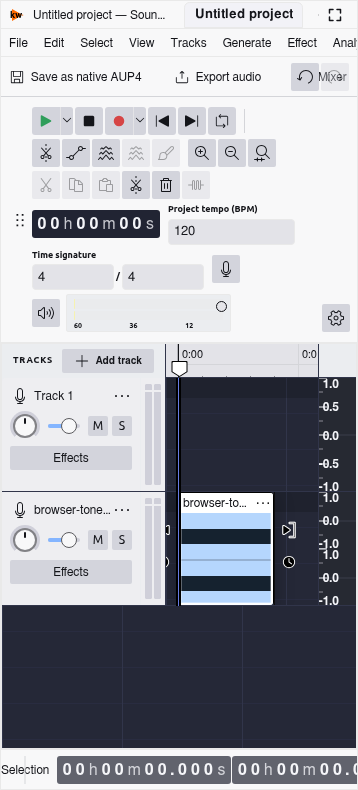
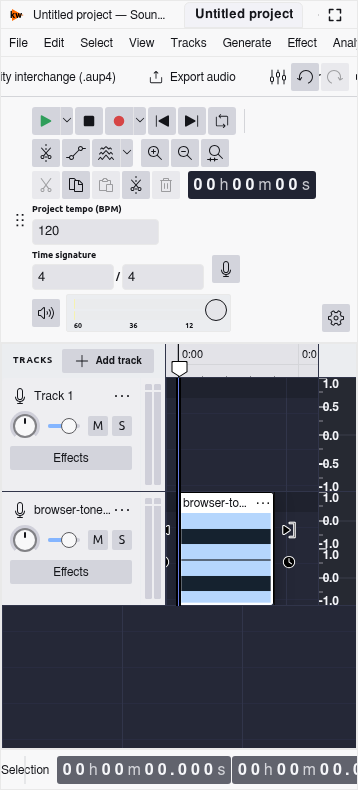
cut/copy/paste

diff --git a/src/components/tools/audio-editor/AudioEditorApp.jsx b/src/components/tools/audio-editor/AudioEditorApp.jsx
@@ -571,12 +571,15 @@ function AudioEditorWorkspace({ locale, copy }) {
 	const recordLabel = showArmControls ? copy.record : copy.recordActiveTrack;
 
 	const editItems = [
-		{ action: 'cut', label: copy.cut, icon: 'cut', disabled: editBlocked || !editSelectionActive },
+		{ action: 'cutPerTrackRipple', label: copy.cutPerTrackRipple, icon: 'cut', disabled: editBlocked || !selectionActive },
+		{ action: 'cutLeaveGap', label: copy.cutLeaveGap, icon: 'cut', disabled: editBlocked || !selectionActive },
+		{ action: 'cutAllTracksRipple', label: copy.cutAllTracksRipple, icon: 'cut', disabled: editBlocked || !selectionActive },
 		{ action: 'copy', label: copy.copy, icon: 'copy', disabled: editBlocked || !editSelectionActive },
 		{ action: 'paste', label: copy.paste, icon: 'paste', disabled: editBlocked || !snapshot.history?.hasClipboard },
 		{ action: 'split', label: copy.split, icon: 'split', disabled: editBlocked || !splitAvailable },
-		{ action: 'delete', label: copy.liftDelete, icon: 'trash', disabled: editBlocked || (!selectionActive && !selectedClip) },
-		{ action: 'rippleDelete', label: copy.rippleDelete, icon: 'trim', disabled: editBlocked || !selectionActive },
+		{ action: 'deletePerTrackRipple', label: copy.deletePerTrackRipple, icon: 'trash', disabled: editBlocked || !selectionActive },
+		{ action: 'deleteLeaveGap', label: copy.deleteLeaveGap, icon: 'trash', disabled: editBlocked || !selectionActive },
+		{ action: 'deleteAllTracksRipple', label: copy.deleteAllTracksRipple, icon: 'trash', disabled: editBlocked || !selectionActive },
 	];
 
 	const executeEdit = useCallback(
@@ -5794,32 +5797,41 @@ function createApplicationMenus({
 				{ id: 'undo', label: copy.undo, shortcut: 'Ctrl+Z', disabled: editBlocked || !snapshot.history?.canUndo, onClick: () => actions.executeEdit('undo') },
 				{ id: 'redo', label: copy.redo, shortcut: 'Ctrl+Shift+Z', disabled: editBlocked || !snapshot.history?.canRedo, onClick: () => actions.executeEdit('redo') },
 				divider(),
-				{ id: 'cut', label: copy.cut, shortcut: 'Ctrl+X', disabled: editBlocked || !editSelectionActive, onClick: () => actions.executeEdit('cut') },
-				{ id: 'delete', label: copy.liftDelete, shortcut: 'Delete', disabled: editBlocked || (!selectionActive && !selectedClip), onClick: () => actions.executeEdit('delete') },
+					{
+						id: 'cut',
+						label: copy.cut,
+						items: [
+							{ id: 'cut-leave-gap', label: copy.cutLeaveGap, shortcut: 'Ctrl+X', disabled: editBlocked || !selectionActive, onClick: () => actions.executeEdit('cutLeaveGap') },
+							{ id: 'cut-per-clip-ripple', label: copy.cutPerClipRipple, disabled: editBlocked || !selectionActive, onClick: () => actions.executeEdit('cutPerClipRipple') },
+							{ id: 'cut-per-track-ripple', label: copy.cutPerTrackRipple, shortcut: 'Shift+X', disabled: editBlocked || !selectionActive, onClick: () => actions.executeEdit('cutPerTrackRipple') },
+							{ id: 'cut-all-tracks-ripple', label: copy.cutAllTracksRipple, shortcut: 'Shift+Ctrl+X', disabled: editBlocked || !selectionActive, onClick: () => actions.executeEdit('cutAllTracksRipple') },
+						],
+					},
+					{
+						id: 'delete',
+						label: copy.liftDelete,
+						items: [
+							{ id: 'delete-leave-gap', label: copy.deleteLeaveGap, shortcut: 'Delete', disabled: editBlocked || !selectionActive, onClick: () => actions.executeEdit('deleteLeaveGap') },
+							{ id: 'delete-per-clip-ripple', label: copy.deletePerClipRipple, disabled: editBlocked || !selectionActive, onClick: () => actions.executeEdit('deletePerClipRipple') },
+							{ id: 'delete-per-track-ripple', label: copy.deletePerTrackRipple, shortcut: 'Backspace', disabled: editBlocked || !selectionActive, onClick: () => actions.executeEdit('deletePerTrackRipple') },
+							{ id: 'delete-all-tracks-ripple', label: copy.deleteAllTracksRipple, shortcut: 'Ctrl+Delete, Ctrl+Backspace', disabled: editBlocked || !selectionActive, onClick: () => actions.executeEdit('deleteAllTracksRipple') },
+						],
+					},
 				{ id: 'copy', label: copy.copy, shortcut: 'Ctrl+C', disabled: editBlocked || !editSelectionActive, onClick: () => actions.executeEdit('copy') },
-				{ id: 'paste', label: copy.paste, shortcut: 'Ctrl+V', disabled: editBlocked || !snapshot.history?.hasClipboard, onClick: () => actions.executeEdit('paste') },
-				{ id: 'duplicate-audio', label: copy.duplicateAudio, disabled: editBlocked || !selectionActive, onClick: () => actions.executeEdit('duplicate') },
 				{
-					id: 'paste-special',
-					label: copy.pasteSpecial,
+					id: 'paste',
+					label: copy.paste,
 					items: [
-						{ id: 'action://trackedit/paste-overlap', label: copy.pasteOverlap, disabled: editBlocked || !snapshot.history?.hasClipboard, onClick: () => actions.executeEdit('pasteOverlap') },
+						{ id: 'action://paste', label: copy.paste, shortcut: 'Ctrl+V', disabled: editBlocked || !snapshot.history?.hasClipboard, onClick: () => actions.executeEdit('paste') },
 						{ id: 'action://trackedit/paste-insert', label: copy.pasteInsert, disabled: editBlocked || !snapshot.history?.hasClipboard, onClick: () => actions.executeEdit('pasteInsert') },
 						{ id: 'action://trackedit/paste-insert-all-tracks-ripple', label: copy.pasteSync, disabled: editBlocked || !snapshot.history?.hasClipboard, onClick: () => actions.executeEdit('pasteAllTracksRipple') },
 					],
 				},
+				{ id: 'duplicate-audio', label: copy.duplicateAudio, disabled: editBlocked || !selectionActive, onClick: () => actions.executeEdit('duplicate') },
 				{
 					id: 'remove-special',
 					label: copy.removeSpecial,
 					items: [
-						{ id: 'cut-leave-gap', label: copy.cutLeaveGap, disabled: editBlocked || !selectionActive, onClick: () => actions.executeEdit('cutLeaveGap') },
-						{ id: 'cut-per-clip-ripple', label: copy.cutPerClipRipple, disabled: editBlocked || !selectionActive, onClick: () => actions.executeEdit('cutPerClipRipple') },
-						{ id: 'cut-per-track-ripple', label: copy.cutPerTrackRipple, disabled: editBlocked || !selectionActive, onClick: () => actions.executeEdit('cutPerTrackRipple') },
-						{ id: 'cut-all-tracks-ripple', label: copy.cutAllTracksRipple, disabled: editBlocked || !selectionActive, onClick: () => actions.executeEdit('cutAllTracksRipple') },
-						{ id: 'delete-leave-gap', label: copy.deleteLeaveGap, disabled: editBlocked || !selectionActive, onClick: () => actions.executeEdit('deleteLeaveGap') },
-						{ id: 'delete-per-clip-ripple', label: copy.deletePerClipRipple, disabled: editBlocked || !selectionActive, onClick: () => actions.executeEdit('deletePerClipRipple') },
-						{ id: 'delete-per-track-ripple', label: copy.deletePerTrackRipple, disabled: editBlocked || !selectionActive, onClick: () => actions.executeEdit('deletePerTrackRipple') },
-						{ id: 'delete-all-tracks-ripple', label: copy.deleteAllTracksRipple, disabled: editBlocked || !selectionActive, onClick: () => actions.executeEdit('deleteAllTracksRipple') },
 						{ id: 'trim-audio-outside-selection', label: copy.trimOutsideSelection, disabled: editBlocked || !selectionActive, onClick: () => actions.executeEdit('trimOutsideSelection') },
 						{ id: 'silence-audio', label: copy.silenceAudio, disabled: editBlocked || !selectionActive, onClick: () => actions.executeEdit('silenceSelection') },
 					],

diff --git a/src/lib/tools/audio-editor/audacity-action-parity.js b/src/lib/tools/audio-editor/audacity-action-parity.js
@@ -122,22 +122,22 @@ const definitions = [
 	// Edit menu and destructive/ripple variants.
 	implemented('action://trackedit/undo', 'Undo', ['Edit'], 'edit.undo', { shortcut: 'Ctrl+Z', enableWhen: 'history-can-undo', source: UPSTREAM.trackEdit }),
 	implemented('action://trackedit/redo', 'Redo', ['Edit'], 'edit.redo', { shortcut: 'Ctrl+Shift+Z', enableWhen: 'history-can-redo', source: UPSTREAM.trackEdit }),
-	implemented('action://cut', 'Cut', ['Edit'], 'edit.cut', { shortcut: 'Ctrl+X', enableWhen: 'editable-selection-or-clip', source: UPSTREAM.trackEdit }),
+	implemented('action://cut', 'Cut', ['Edit'], 'edit.cut', { enableWhen: 'editable-selection-or-clip', source: UPSTREAM.trackEdit }),
 	implemented('action://copy', 'Copy', ['Edit'], 'edit.copy', { shortcut: 'Ctrl+C', enableWhen: 'selection', source: UPSTREAM.trackEdit }),
 	implemented('action://paste', 'Paste', ['Edit'], 'edit.paste', { shortcut: 'Ctrl+V', enableWhen: 'clipboard-and-project-writable', source: UPSTREAM.trackEdit }),
-	implemented('action://delete', 'Delete', ['Edit', 'Clip context'], 'edit.delete', { shortcut: 'Delete', enableWhen: 'editable-selection-or-clip', source: UPSTREAM.trackEdit }),
+	implemented('action://delete', 'Delete', ['Edit', 'Clip context'], 'edit.delete', { enableWhen: 'editable-selection-or-clip', source: UPSTREAM.trackEdit }),
 	implemented('duplicate', 'Duplicate', ['Edit'], 'edit.duplicate', { shortcut: 'Ctrl+D', enableWhen: 'editable-selection-or-clip', source: UPSTREAM.trackEdit }),
-	implemented('action://trackedit/paste-overlap', 'Paste and overlap', ['Edit > Paste special'], 'edit.pasteOverlap', { enableWhen: 'clipboard-and-project-writable', source: UPSTREAM.trackEdit }),
-	implemented('action://trackedit/paste-insert', 'Paste and insert', ['Edit > Paste special'], 'edit.pasteInsert', { enableWhen: 'clipboard-and-project-writable', source: UPSTREAM.trackEdit }),
-	implemented('action://trackedit/paste-insert-all-tracks-ripple', 'Paste and preserve synchronization', ['Edit > Paste special'], 'edit.pasteAllTracksRipple', { enableWhen: 'clipboard-and-project-writable', source: UPSTREAM.trackEdit }),
-	implemented('cut-leave-gap', 'Cut and leave gap', ['Edit > Remove special'], 'edit.cutLeaveGap', { enableWhen: 'editable-selection', source: UPSTREAM.trackEdit }),
-	implemented('cut-per-clip-ripple', 'Cut and close gap per clip', ['Edit > Remove special'], 'edit.cutPerClipRipple', { enableWhen: 'editable-selection', source: UPSTREAM.trackEdit }),
-	implemented('cut-per-track-ripple', 'Cut and close gap per track', ['Edit > Remove special'], 'edit.cutPerTrackRipple', { enableWhen: 'editable-selection', source: UPSTREAM.trackEdit }),
-	implemented('cut-all-tracks-ripple', 'Cut and close gap on all tracks', ['Edit > Remove special'], 'edit.cutAllTracksRipple', { enableWhen: 'editable-selection', source: UPSTREAM.trackEdit }),
-	implemented('delete-leave-gap', 'Delete and leave gap', ['Edit > Remove special'], 'edit.deleteLeaveGap', { enableWhen: 'editable-selection', source: UPSTREAM.trackEdit }),
-	implemented('delete-per-clip-ripple', 'Delete and close gap per clip', ['Edit > Remove special'], 'edit.deletePerClipRipple', { enableWhen: 'editable-selection', source: UPSTREAM.trackEdit }),
-	implemented('delete-per-track-ripple', 'Delete and close gap per track', ['Edit > Remove special'], 'edit.deletePerTrackRipple', { enableWhen: 'editable-selection', source: UPSTREAM.trackEdit }),
-	implemented('delete-all-tracks-ripple', 'Delete and close gap on all tracks', ['Edit > Remove special'], 'edit.deleteAllTracksRipple', { enableWhen: 'editable-selection', source: UPSTREAM.trackEdit }),
+	implemented('action://trackedit/paste-overlap', 'Paste', ['Edit > Paste'], 'edit.pasteOverlap', { enableWhen: 'clipboard-and-project-writable', source: UPSTREAM.trackEdit }),
+	implemented('action://trackedit/paste-insert', 'Insert', ['Edit > Paste'], 'edit.pasteInsert', { shortcut: 'Insert', enableWhen: 'clipboard-and-project-writable', source: UPSTREAM.trackEdit }),
+	implemented('action://trackedit/paste-insert-all-tracks-ripple', 'Insert and preserve synchronisation', ['Edit > Paste'], 'edit.pasteAllTracksRipple', { shortcut: 'Ctrl+Insert', enableWhen: 'clipboard-and-project-writable', source: UPSTREAM.trackEdit }),
+	implemented('cut-leave-gap', 'Cut and leave gap', ['Edit > Cut'], 'edit.cutLeaveGap', { shortcut: 'Ctrl+X', enableWhen: 'editable-selection', source: UPSTREAM.trackEdit }),
+	implemented('cut-per-clip-ripple', 'Cut and close gap per clip', ['Edit > Cut'], 'edit.cutPerClipRipple', { enableWhen: 'editable-selection', source: UPSTREAM.trackEdit }),
+	implemented('cut-per-track-ripple', 'Cut and close gap per track', ['Edit > Cut'], 'edit.cutPerTrackRipple', { shortcut: 'Shift+X', enableWhen: 'editable-selection', source: UPSTREAM.trackEdit }),
+	implemented('cut-all-tracks-ripple', 'Cut and close gap on all tracks', ['Edit > Cut'], 'edit.cutAllTracksRipple', { shortcut: 'Shift+Ctrl+X', enableWhen: 'editable-selection', source: UPSTREAM.trackEdit }),
+	implemented('delete-leave-gap', 'Delete and leave gap', ['Edit > Delete'], 'edit.deleteLeaveGap', { shortcut: 'Delete', enableWhen: 'editable-selection', source: UPSTREAM.trackEdit }),
+	implemented('delete-per-clip-ripple', 'Delete and close gap per clip', ['Edit > Delete'], 'edit.deletePerClipRipple', { enableWhen: 'editable-selection', source: UPSTREAM.trackEdit }),
+	implemented('delete-per-track-ripple', 'Delete and close gap per track', ['Edit > Delete'], 'edit.deletePerTrackRipple', { shortcut: 'Backspace', enableWhen: 'editable-selection', source: UPSTREAM.trackEdit }),
+	implemented('delete-all-tracks-ripple', 'Delete and close gap on all tracks', ['Edit > Delete'], 'edit.deleteAllTracksRipple', { enableWhen: 'editable-selection', source: UPSTREAM.trackEdit }),
 	implemented('trim-audio-outside-selection', 'Trim audio outside selection', ['Edit > Remove special'], 'edit.trimOutsideSelection', { enableWhen: 'editable-selection', source: UPSTREAM.trackEdit }),
 	implemented('silence-audio-selection', 'Silence audio selection', ['Edit > Remove special'], 'edit.silenceSelection', { enableWhen: 'editable-selection', source: UPSTREAM.trackEdit }),
 	implemented('split', 'Split', ['Edit > Clip', 'Clip context'], 'edit.split', { shortcut: 'S', enableWhen: 'editable-selection-or-clip', source: UPSTREAM.trackEdit }),

diff --git a/src/lib/tools/audio-editor/preferences.js b/src/lib/tools/audio-editor/preferences.js
@@ -17,11 +17,16 @@ export const AUDIO_EDITOR_THEMES = Object.freeze([
 export const AUDIO_EDITOR_CLIP_STYLES = Object.freeze(['classic', 'colorful']);
 export const AUDIO_EDITOR_PLAY_AT_SPEED_MODES = Object.freeze(['naive', 'staffpad']);
 
-export const AUDIO_EDITOR_DEFAULT_SHORTCUTS = Object.freeze(Object.fromEntries(
+const AUDIO_EDITOR_DEFAULT_SHORTCUTS_BY_ACTION = Object.freeze(Object.fromEntries(
 	Object.values(AUDACITY_ACTION_MANIFEST)
 		.filter((action) => action.status === AUDACITY_ACTION_STATUS.IMPLEMENTED && action.shortcut)
 		.map((action) => [action.id, Object.freeze([action.shortcut])]),
 ));
+
+export const AUDIO_EDITOR_DEFAULT_SHORTCUTS = Object.freeze({
+	...AUDIO_EDITOR_DEFAULT_SHORTCUTS_BY_ACTION,
+	'delete-all-tracks-ripple': Object.freeze(['Ctrl+Delete', 'Ctrl+Backspace']),
+});
 
 const LEGACY_SHORTCUT_ACTION_IDS = Object.freeze({
 	play: 'action://playback/play',
@@ -73,12 +78,15 @@ const DEFAULT_TOOLBAR_BUTTONS = Object.freeze({
 	'zoom-fit': true,
 	undo: true,
 	redo: true,
-	cut: true,
+	cutPerTrackRipple: true,
+	cutLeaveGap: false,
+	cutAllTracksRipple: false,
 	copy: true,
 	paste: true,
 	split: true,
-	delete: true,
-	rippleDelete: true,
+	deletePerTrackRipple: true,
+	deleteLeaveGap: false,
+	deleteAllTracksRipple: false,
 	'time-display': true,
 	monitor: true,
 	'playback-volume': true,

diff --git a/tests/browser/audio-editor.spec.js b/tests/browser/audio-editor.spec.js
@@ -430,6 +430,12 @@ test.describe('audio editor React/design-system workflows', () => {
 		await expect(flyout).toBeVisible();
 		await expect(flyout).toHaveCSS('position', 'fixed');
 		await expect(flyout.locator('.musescore-icon').first()).toBeVisible();
+		await expect(flyout.getByRole('checkbox', { name: 'Cut and close gap per track', exact: true })).toHaveAttribute('aria-checked', 'true');
+		await expect(flyout.getByRole('checkbox', { name: 'Delete and close gap per track', exact: true })).toHaveAttribute('aria-checked', 'true');
+		await expect(flyout.getByRole('checkbox', { name: 'Cut and leave gap', exact: true })).toHaveAttribute('aria-checked', 'false');
+		await expect(flyout.getByRole('checkbox', { name: 'Delete and leave gap', exact: true })).toHaveAttribute('aria-checked', 'false');
+		await expect(flyout.getByRole('checkbox', { name: 'Cut and close gap on all tracks', exact: true })).toHaveAttribute('aria-checked', 'false');
+		await expect(flyout.getByRole('checkbox', { name: 'Delete and close gap on all tracks', exact: true })).toHaveAttribute('aria-checked', 'false');
 		await expect(playToggle).toHaveAttribute('aria-checked', 'true');
 		await playToggle.click();
 		await expect(playToggle).toHaveAttribute('aria-checked', 'false');
@@ -2791,6 +2797,14 @@ test.describe('audio editor React/design-system workflows', () => {
 		const editCommands = page.getByRole('menu', { name: 'Edit', exact: true });
 		await expect(getMenuItem(editCommands, 'Cut')).toHaveAttribute('aria-disabled', 'false');
 		await expect(getMenuItem(editCommands, 'Copy')).toHaveAttribute('aria-disabled', 'false');
+		const paste = getMenuItem(editCommands, 'Paste');
+		await paste.focus();
+		await page.keyboard.press('ArrowRight');
+		const pasteMenu = paste.getByRole('menu');
+		await expect(pasteMenu).toBeVisible();
+		await expect(pasteMenu.getByRole('menuitem', { name: /^Paste/ })).toHaveCount(1);
+		await expect(getMenuItem(pasteMenu, 'Insert')).toBeVisible();
+		await expect(getMenuItem(pasteMenu, 'Insert and preserve synchronisation')).toBeVisible();
 		await page.keyboard.press('Escape');
 		await clip.getByRole('button', { name: 'Clip menu', exact: true }).click();
 		const clipMenu = page.locator('.audio-editor-clip-context-menu');

diff --git a/src/i18n/catalogs.js b/src/i18n/catalogs.js
@@ -88,10 +88,8 @@ export const COPY_BY_LOCALE = deepFreeze({
 		cut: 'Ausschneiden',
 		copy: 'Kopieren',
 		paste: 'Einfügen',
-		pasteSpecial: 'Spezial-Einfügen',
-		pasteOverlap: 'Einfügen und überlagern',
-		pasteInsert: 'Einfügen und verschieben',
-		pasteSync: 'Einfügen und Synchronität erhalten',
+		pasteInsert: 'Einsetzen',
+		pasteSync: 'Einsetzen und Synchronität erhalten',
 		duplicateAudio: 'Duplizieren',
 		split: 'An Abspielposition teilen',
 		liftDelete: 'Löschen und Lücke behalten',
@@ -1044,10 +1042,8 @@ export const COPY_BY_LOCALE = deepFreeze({
 		cut: 'Cut',
 		copy: 'Copy',
 		paste: 'Paste',
-		pasteSpecial: 'Paste special',
-		pasteOverlap: 'Paste and overlap',
-		pasteInsert: 'Paste and insert',
-		pasteSync: 'Paste and preserve synchronization',
+		pasteInsert: 'Insert',
+		pasteSync: 'Insert and preserve synchronisation',
 		duplicateAudio: 'Duplicate',
 		split: 'Split at playhead',
 		liftDelete: 'Delete and leave gap',